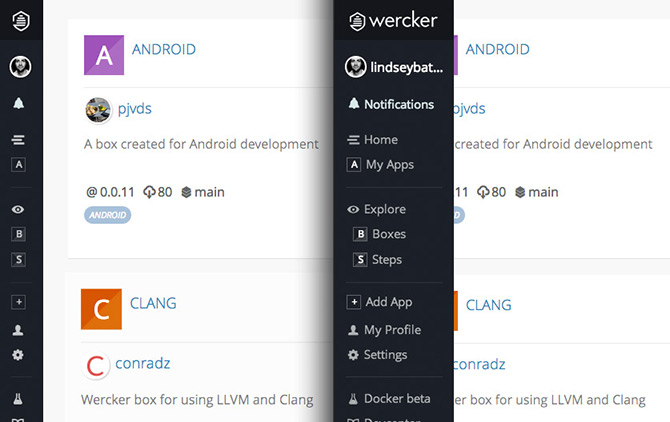
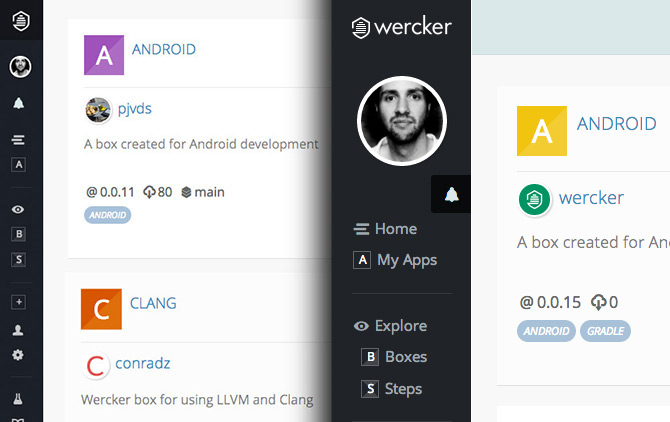
post on new menu

Changed region(s): [[0.4478, 0.0, 1.0, 1.0], [0.7761, 0.5545, 1.0, 0.5853]]

diff --git a/source/stylesheets/_page-content.scss b/source/stylesheets/_page-content.scss
@@ -62,7 +62,7 @@
 
 		p {
 			line-height: 1.9em;
-			font-weight: 200;
+			font-weight: 400;
 			font-size: 1.1em;
 			color: rgba(#1c2027, 0.7);
 		}
@@ -88,6 +88,11 @@
 				margin-left:0.5*$column-gutter;
 				margin-bottom: 5px;
 			}
+		}
+
+		.subheader.highlight {
+			background: rgba($secondaryColor, 0.1);
+			padding: $column-gutter;
 		}
 	}
 

diff --git a/source/posts/2013-10-16-new-menubar.md b/source/posts/2013-10-16-new-menubar.md
@@ -4,7 +4,7 @@ date: 2013-10-16
 tags: ux, menu bar, css3, css-animation, product design
 author: Lindsey Bateman
 gravatarhash: e1c82876f21cdafafd2b01a1e625f587
-published: false
+published: true
 ---
 
 <h4 class="subheader">
@@ -16,28 +16,27 @@ with the improvements we made on our menu bar.
 
 READMORE
 
-The menu bar now minimizes itself after loggin in on wercker, showing only the
-icons. On touch/rollover, it animates to show the full menu.
+Our goal was to create more focus on the content and a less obstrusive navigation.
 
-We wanted to create more focus on the content. It brings all options together and makes a clearer difference between navigation and
-the builds / deploys you are running. The nice thing is, it animates really snappy and doesn't slow you down.
+What we did is, combine the top bar with the side bar and designed a minimized version of the side bar.
+The new menu now minimizes itself after loggin in on wercker, showing only the icons.
+On touch/rollover, it animates to show the full menu. The nice thing is, it animates really snappy
+and doesn't slow you down.
 
-When frequently using wercker you get a quick sense of the menu and you don't need to think anymore
-how to get from page **A** to **B**. We now can use the space for better showing data that mathers more
-to the users.
+When frequently using wercker you get a quick sense of the menu, it's there when you need it but now
+in a more subtle way. The benefit is we can utilize the extra space for the more important stuff like
+your apps and running builds / deploys.
 
 ![New menu bar](/images/posts/new-menubar/new-menubar-ipad.jpg)
 
-The extra pixels we gain is best used experienced tablets, the menu bar open and closes on touch and now more
-than ever this kind of menus are widely accepted in apps.
+The extra space we gained is best experienced on tablets, the menu bar open and closes on touch and
+now more than ever this kind of menus are widely accepted in apps.
 
-We are constantly looking for this kind of improvements that make wercker a more mature application
-and shows to our userbase that we are constantly improving wercker.
+We are constantly working on these kind of improvements that make wercker better and a more mature application.
+Luckely we have really awesome users who help us by giving great feedback.
 
-Luckely we have really awesome users who help us by giving us great feedback and have great new feature requests.
-
-<h4 class="subheader">
-We hope you like the new menu bar so far and as always feedback is more then welcome.
+<h4 class="subheader highlight">
+We hope you like the new menu bar so far and as always your feedback is more then welcome.
 </h4>
 
 ## Earn some stickers!
